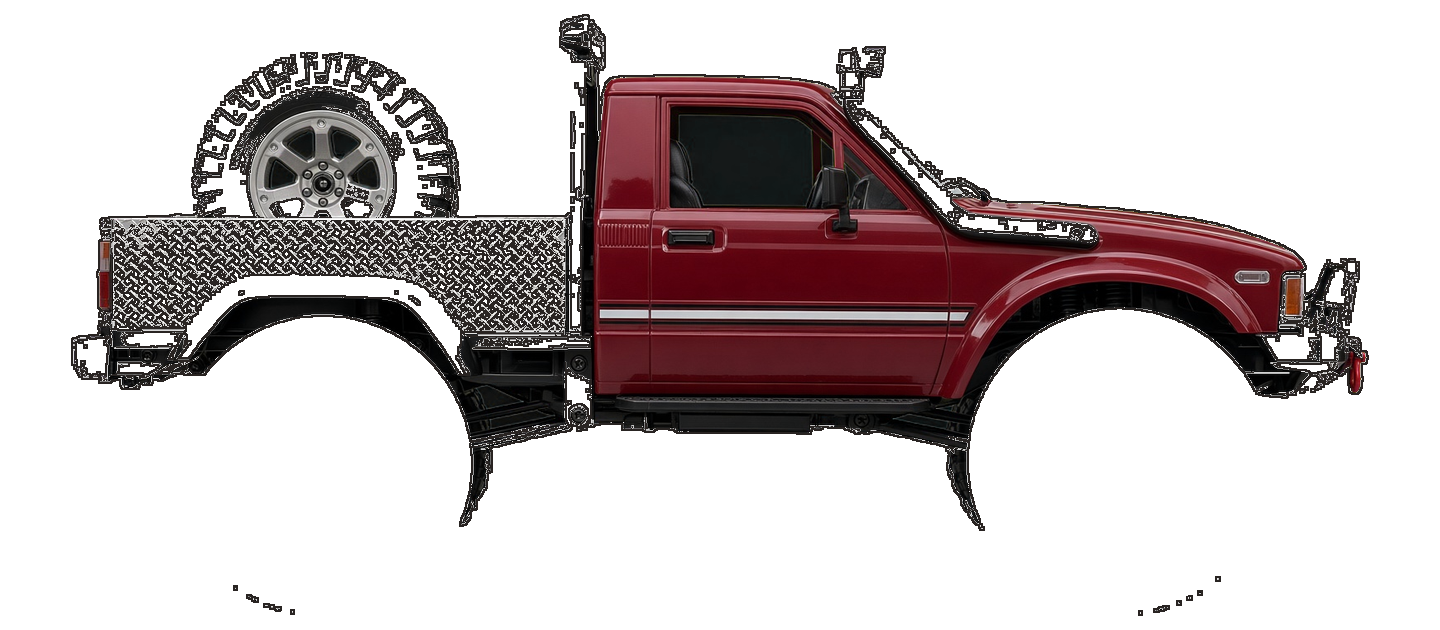
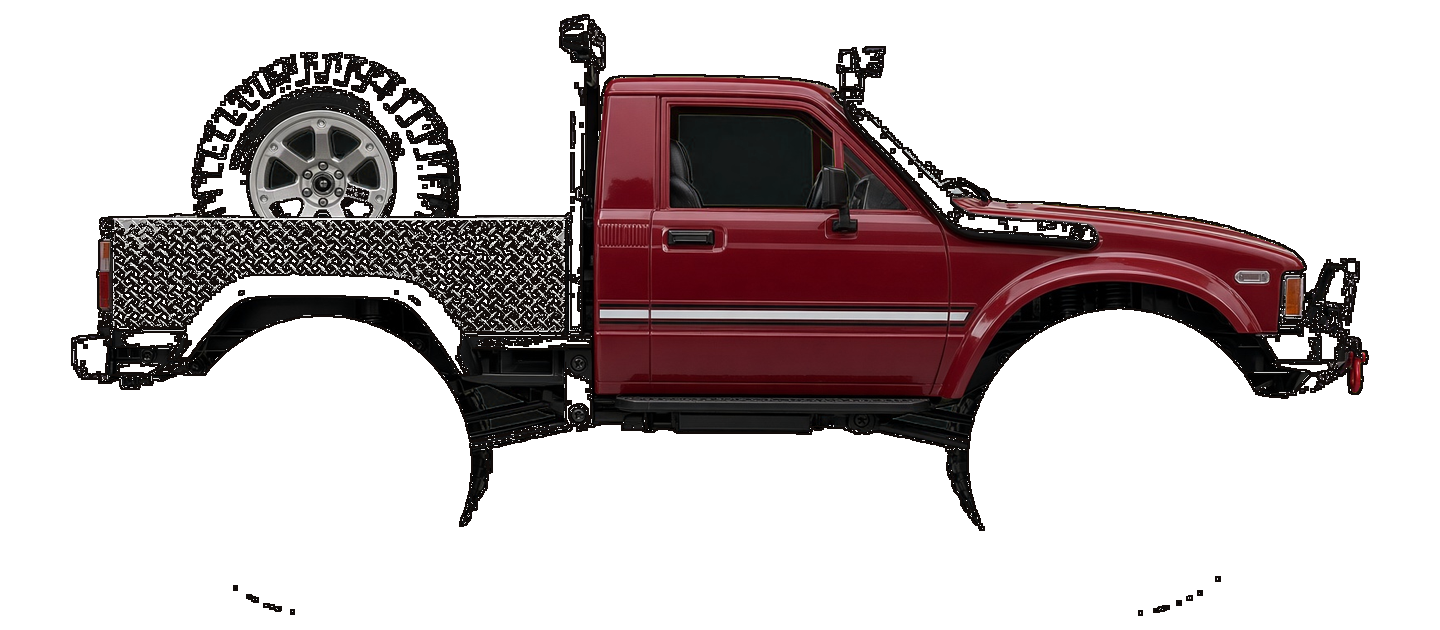
RC Rally 3.13 — earlier difficulty, Space missiles, real wheel shrink, remove see-through square
Cache-bust ?v=20260925diff2. RCRallyJump only.

diff --git a/games/RCRallyJump/engine.js b/games/RCRallyJump/engine.js
@@ -1,4 +1,4 @@
-const VERSION = "3.11";
+const VERSION = "3.13";
 const VIEW_W = 960;
 const VIEW_H = 540;
 const PLAYER_X = 168;
@@ -217,8 +217,8 @@ function createSim(best = 0) {
     missileT: 0,
     rig: "rally",
     booms: 0,
-    nextGate: 780,
-    nextDrone: 9800,
+    nextGate: 520,
+    nextDrone: 5200,
     stage: "calm",
     gatesCleared: 0,
     best,
@@ -269,9 +269,10 @@ function wheelPace(sim) {
   return sum * 0.5;
 }
 function stageAt(t) {
-  if (t < 90) return "calm";
-  if (t < 180) return "pattern";
-  if (t < 300) return "hunt";
+  // Retuned 3.12: calm short, weave by ~45s, chase by ~90s, lock/serious by ~180s (~3 min).
+  if (t < 45) return "calm";
+  if (t < 90) return "pattern";
+  if (t < 180) return "hunt";
   return "lock";
 }
 function eta(sim, worldX) {
@@ -281,7 +282,7 @@ function stageOf(sim) {
   return stageAt(sim.time || 0);
 }
 function heat(sim, worldX) {
-  return clamp(eta(sim, worldX) / 300, 0, 1.8);
+  return clamp(eta(sim, worldX) / 180, 0, 1.8);
 }
 function dronePos(sim, d) {
   if (d.kind === "pattern") {
@@ -300,7 +301,7 @@ function stepDrones(sim, dt) {
     if (d.kind === "drift") d.x -= sim.speed * 0.12 * dt;
     else if (d.kind === "pattern") d.x -= sim.speed * 0.03 * dt;
     else if (d.kind === "seek") {
-      const chase = sim.time < 180 ? 0.35 : sim.time < 300 ? 0.35 + (sim.time - 180) / 120 * 0.75 : 1.35;
+      const chase = sim.time < 90 ? 0.35 : sim.time < 180 ? 0.35 + (sim.time - 90) / 90 * 0.75 : 1.35;
       d.x += (playerX + 260 - d.x) * Math.min(1, dt * (0.7 + chase));
       d.y += clamp(playerY - d.y, -140, 140) * dt * chase;
       d.y = clamp(d.y, 40, surfaceY(sim, d.x) - 56);
@@ -325,7 +326,7 @@ function spawnDrones(sim) {
     const gyD = groundY(x);
     const nearGate = sim.gates.some((g) => Math.abs(g.x - x) < 200);
     if (stage === "calm") {
-      if (!nearGate && gyD > 180 && eta(sim, x) > 40) {
+      if (!nearGate && gyD > 180 && eta(sim, x) > 22) {
         sim.drones.push({
           kind: "drift",
           x,
@@ -335,19 +336,19 @@ function spawnDrones(sim) {
           dead: false
         });
       }
-      sim.nextDrone += 2400 + hash(x + 3) * 800;
+      sim.nextDrone += 1700 + hash(x + 3) * 650;
     } else if (stage === "pattern") {
       if (!nearGate) {
-        const late = clamp((eta(sim, x) - 90) / 120, 0, 1.4);
+        const late = clamp((eta(sim, x) - 45) / 60, 0, 1.4);
         const amp = 64 + late * 36;
         const freq = 0.8 + late * 0.85;
         const y = clamp(gyD * 0.42, 130, 240);
         sim.drones.push({ kind: "pattern", x, y, bob: 0, amp, freq, spin: 0, dead: false });
         sim.drones.push({ kind: "pattern", x, y, bob: Math.PI, amp, freq, spin: 0, dead: false });
       }
-      sim.nextDrone += 1900 - Math.min(700, Math.max(0, eta(sim, x) - 90));
+      sim.nextDrone += 1550 - Math.min(650, Math.max(0, eta(sim, x) - 45));
     } else if (stage === "hunt") {
-      const cap = sim.time < 240 ? 1 : sim.time < 300 ? 2 : 3;
+      const cap = sim.time < 120 ? 1 : sim.time < 180 ? 2 : 3;
       const hunting = sim.drones.filter((d) => d.kind === "seek" && !d.dead).length;
       if (hunting < cap && !nearGate) {
         sim.drones.push({
@@ -359,7 +360,7 @@ function spawnDrones(sim) {
           dead: false
         });
       }
-      sim.nextDrone += sim.time < 300 ? 1400 : 900;
+      sim.nextDrone += sim.time < 180 ? 1180 : 820;
     } else {
       const blocking = sim.drones.some((d) => d.kind === "lock" && !d.dead && d.x > sim.scroll + 40);
       if (!blocking && !nearGate) {
@@ -372,9 +373,9 @@ function spawnDrones(sim) {
           dead: false,
           bumped: false
         });
-        sim.nextDrone += sim.time < 420 ? 2200 : 1500;
+        sim.nextDrone += sim.time < 240 ? 1850 : 1350;
       } else {
-        const cap = sim.time < 420 ? 2 : 3;
+        const cap = sim.time < 240 ? 2 : 3;
         const hunting = sim.drones.filter((d) => d.kind === "seek" && !d.dead).length;
         if (hunting < cap) {
           sim.drones.push({
@@ -386,7 +387,7 @@ function spawnDrones(sim) {
             dead: false
           });
         }
-        sim.nextDrone += 980;
+        sim.nextDrone += 900;
       }
     }
   }
@@ -396,21 +397,22 @@ function plant(sim) {
 }
 function cruiseOf(sim) {
   const t = sim.time || 0;
-  if (t < 300) return 210 + t * 0.22;
-  return Math.min(420, 276 + (t - 300) * 0.6);
+  if (t < 180) return 215 + t * 0.38;
+  return Math.min(430, 283 + (t - 180) * 0.72);
 }
 function randKind(sim, worldX) {
   const t = eta(sim, worldX);
   const r = hash(worldX);
-  if (t < 55) return "drive";
-  if (t < 140) return r < 0.42 ? "drive" : "hop";
-  if (t < 300) {
-    if (r < 0.28) return "drive";
-    if (r < 0.72) return "hop";
+  // Brief flat spawn, then hops in the first minute; climbs meaningfully by ~1–2 min.
+  if (t < 14) return "drive";
+  if (t < 45) return r < 0.26 ? "drive" : "hop";
+  if (t < 110) {
+    if (r < 0.16) return "drive";
+    if (r < 0.66) return "hop";
     return "climb";
   }
-  if (r < 0.16) return "drive";
-  if (r < 0.5) return "hop";
+  if (r < 0.1) return "drive";
+  if (r < 0.46) return "hop";
   return "climb";
 }
 function groundSpan(worldX) {
@@ -428,7 +430,7 @@ function spawnGate(sim, worldX) {
   const kicker = wantKicker(sim, worldX);
   const kind = kicker ? "hop" : randKind(sim, worldX);
   const t = eta(sim, worldX);
-  const opening = t < 300 ? 210 - t * 0.13 : Math.max(112, 171 - (t - 300) * 0.18);
+  const opening = t < 180 ? 208 - t * 0.3 : Math.max(108, 154 - (t - 180) * 0.24);
   let gapTop;
   let gapBot;
   if (kicker) {
@@ -463,10 +465,11 @@ function spawnGate(sim, worldX) {
 }
 function wantKicker(sim, worldX) {
   const t = eta(sim, worldX);
-  if (t < 40) return false;
-  if (hash(worldX + 8.5) > (t < 300 ? 0.34 : 0.22)) return false;
+  // Fun amber ramps in the opening minute; still off for the first ~12s so spawn stays fair.
+  if (t < 12) return false;
+  if (hash(worldX + 8.5) > (t < 90 ? 0.5 : t < 180 ? 0.38 : 0.24)) return false;
   const last = sim.ramps[sim.ramps.length - 1];
-  if (last && worldX - last.lip < (t < 180 ? 980 : 720)) return false;
+  if (last && worldX - last.lip < (t < 60 ? 700 : t < 120 ? 560 : 440)) return false;
   return true;
 }
 function wrapDeg(a) {
@@ -770,7 +773,7 @@ function tick(sim, dt, input) {
   }
   while (sim.nextGate < sim.scroll + VIEW_W + 80) {
     spawnGate(sim, sim.nextGate);
-    const pace = sim.time < 300 ? 2.4 - sim.time * 0.0014 : Math.max(1.25, 1.95 - (sim.time - 300) * 0.002);
+    const pace = sim.time < 180 ? 2.05 - sim.time * 0.0032 : Math.max(1.18, 1.55 - (sim.time - 180) * 0.0024);
     const spacing = cruiseOf(sim) * pace;
     sim.nextGate += spacing;
   }
@@ -1242,10 +1245,8 @@ function drawCar(ctx, sim, art) {
   const wheelFront = pixel && ready(art.pixelWheel) ? art.pixelWheel : crawler && ready(art.crawlerWheel) ? art.crawlerWheel : art.wheelFront;
   const body = pixel ? art.pixel : crawler ? art.crawler : art.body;
   const wheelsReady = ready(wheelRear) && ready(wheelFront) && ready(body);
-  if (wheelsReady) {
-    spinWheel(ctx, sim, 0, wheelRear);
-    spinWheel(ctx, sim, 1, wheelFront);
-  }
+  // Body first, then wells+tires on top. Body PNGs bake full-size wheel arches; drawing tires
+  // underneath left a full-size arch halo when tune.wheel shrunk the live tire.
   const img = wheelsReady ? body : art.buggy;
   if (img && ready(img)) {
     ctx.drawImage(img, -CAR_W / 2 * s, -CAR_H / 2 * s, CAR_W * s, CAR_H * s);
@@ -1253,10 +1254,14 @@ function drawCar(ctx, sim, art) {
     ctx.fillStyle = pixel ? "#d42828" : crawler ? "#9a1b24" : "#e4572e";
     ctx.fillRect(-CAR_W / 2 * s, -CAR_H / 2 * s, CAR_W * s, CAR_H * s);
   }
-  if (sim.damage > 6) {
-    ctx.fillStyle = `rgba(70, 18, 10, ${Math.min(0.28, sim.damage / 360)})`;
-    ctx.fillRect(-CAR_W / 2 * s, -CAR_H / 2 * s, CAR_W * s * 0.45, CAR_H * s);
+  if (wheelsReady) {
+    // Body-colored well fill (not tire-black) so shrink cannot leave a full-size black silhouette.
+    const wellFill = pixel ? "#6a2430" : crawler ? "#7a1c24" : "#5c2218";
+    spinWheel(ctx, sim, 0, wheelRear, wellFill);
+    spinWheel(ctx, sim, 1, wheelFront, wellFill);
   }
+  // Damage used to paint a translucent rear fillRect (read as a see-through square that followed
+  // every skin). Dents alone carry the beat-up look without a rogue panel.
   if (sim.dents.length) {
     ctx.strokeStyle = "rgba(48, 22, 14, 0.9)";
     ctx.lineWidth = 1.4;
@@ -1274,23 +1279,33 @@ function drawCar(ctx, sim, art) {
 function ready(img) {
   return !!img && img.complete && img.naturalWidth > 0;
 }
-function spinWheel(ctx, sim, index, img) {
+function spinWheel(ctx, sim, index, img, wellFill = "#5c2218") {
   const g = wheelGeom(sim, index);
-  // Squash in chassis space (before spin) so tires expand sideways / shrink vertically against dirt,
-  // instead of the oval orbiting with the tread (scale-after-rotate looked like broken expand/shrink).
+  // Cover the body PNG's baked full-size well with chassis paint, then draw the live tire at
+  // tune.wheel. Collision uses the same radius (g.r === max(3.5, drawR)). Tire-black fill was
+  // reading as a full-size silhouette when the slider shrank the sprite.
+  const wellR = Math.max(g.drawR, rigWheels(sim)[index].r * sim.tune.chassis * 1.04);
   const bulge = 1 + g.squash * 0.28;
   const flat = Math.max(0.52, 1 - g.squash * 0.42);
   const ang = sim.wheelAng[index];
   ctx.save();
   ctx.translate(g.lx, g.ly + g.squash * g.drawR * 0.2);
+  ctx.beginPath();
+  ctx.arc(0, 0, wellR, 0, Math.PI * 2);
+  ctx.fillStyle = wellFill;
+  ctx.fill();
+  ctx.save();
   ctx.scale(bulge, flat);
   ctx.rotate(ang);
-  // Opaque disc under the sprite so spoke/tread cutouts stay solid (no sky/dirt through the hub).
+  ctx.beginPath();
+  ctx.arc(0, 0, Math.max(0.5, g.drawR), 0, Math.PI * 2);
+  ctx.clip();
   ctx.beginPath();
   ctx.arc(0, 0, g.drawR * 0.98, 0, Math.PI * 2);
   ctx.fillStyle = "#14110f";
   ctx.fill();
   ctx.drawImage(img, -g.drawR, -g.drawR, g.drawR * 2, g.drawR * 2);
+  ctx.restore();
   ctx.restore();
 }
 function drawTrailer(ctx, sim) {

diff --git a/games/RCRallyJump/index.html b/games/RCRallyJump/index.html
@@ -273,9 +273,9 @@
       pointer-events: auto;
       touch-action: manipulation;
       flex: 1;
-      height: 48px;
-      min-width: 72px;
-      padding: 0 14px;
+      height: 52px;
+      min-width: 88px;
+      padding: 0 16px;
       border-radius: 12px;
       border: 1px solid var(--amber);
       background: var(--ember);
@@ -283,8 +283,22 @@
       font-family: var(--display);
       letter-spacing: 0.12em;
       font-size: 22px;
+      box-shadow: 0 6px 0 rgba(0, 0, 0, 0.28);
+    }
+    .fire#fire {
+      flex: 1.35;
+      min-width: 110px;
+      font-size: 24px;
+      background: linear-gradient(180deg, #e4572e 0%, #b33a1c 100%);
     }
     .fire[hidden] { display: none; }
+    @media (max-width: 720px) {
+      .fire#fire {
+        height: 58px;
+        min-width: 120px;
+        font-size: 26px;
+      }
+    }
     .tune {
       pointer-events: auto;
       position: absolute;
@@ -384,9 +398,9 @@
         <div class="missiles">
           <div class="pack-row"><span>MISSILES</span></div>
           <div class="missile-actions">
-            <div class="pips" id="pips" title="Fire a missile"><i></i><i></i><i></i></div>
+            <div class="pips" id="pips" title="Space or tap to fire a missile"><i></i><i></i><i></i></div>
             <button type="button" class="fire" id="nose" data-ui hidden>Front</button>
-            <button type="button" class="fire" id="fire" data-ui hidden>Fire</button>
+            <button type="button" class="fire" id="fire" data-ui hidden>Missile</button>
           </div>
         </div>
       </div>
@@ -404,13 +418,13 @@
         </div>
         <p class="picked" id="picked">Selected: rally buggy</p>
         <ul>
-          <li>Press the spot you want the front to point. In front, behind, above, or below. Hold to jump. Let go and it lands flat. Upside down ends the run.</li>
+          <li>Press the spot you want the front to point. In front, behind, above, or below. Hold Up / W (or press and hold on the track) to jump. Space fires a missile. Let go and it lands flat. Upside down ends the run.</li>
           <li>The striped walls are solid. A hit bumps you and leaves a mark. Climb or drop into the gap to get through. A clean gap scores more than a scrape.</li>
           <li>Amber kickers throw you through if you ride them with speed. Too late, and you take the gate on the dirt.</li>
-          <li>It stays friendly for about five minutes, then the drones get serious. Shoot a beam to get past it.</li>
+          <li>Drones pick up after the first minute and get serious by a few minutes in. Shoot a beam to get past it.</li>
         </ul>
         <button type="button" class="go" id="start" data-ui>Start run</button>
-        <p class="hint">Press where the front should point. Hold to jump. Front points the nose forward.</p>
+        <p class="hint">Aim where the front should point. Up / W or hold to jump. Space or Missile for missiles. Arrows / WASD steer.</p>
         <a class="home" href="https://www.similarize.com/">Similarize</a>
       </div>
     </div>
@@ -431,7 +445,7 @@
         <h2 id="over-score">0</h2>
         <p class="lead" id="over-meta"></p>
         <button type="button" class="go" id="again" data-ui>Run it back</button>
-        <p class="hint">Tap, Space, or R</p>
+        <p class="hint">Tap, Space, or R to run it back</p>
       </div>
     </div>
     <div class="tune" id="tune" data-ui hidden>
@@ -452,6 +466,6 @@
       <button type="button" class="reset" id="tune-reset" data-ui>Reset</button>
     </div>
   </div>
-  <script type="module" src="./standalone.js?v=20260925wheels4"></script>
+  <script type="module" src="./standalone.js?v=20260925diff2"></script>
 </body>
 </html>

diff --git a/games/RCRallyJump/standalone.js b/games/RCRallyJump/standalone.js
@@ -14,7 +14,7 @@ import {
   wheelPace,
   MISSILE_MAX,
   MISSILE_RELOAD
-} from "./engine.js?v=20260925wheels4";
+} from "./engine.js?v=20260925diff2";
 var BEST_KEY = "rc-rally-jump-best";
 var RIG_KEY = "rc-rally-rig";
 var TUNE_KEY = "rc-rally-tune";
@@ -174,9 +174,9 @@ function boot() {
   art.wheelFront.src = artUrl("wheel-front.png") + "?v=20260925wheels4";
   art.drone.src = artUrl("drone.png");
   art.sky.src = artUrl("sky.jpg");
-  art.crawler.src = artUrl("crawler-body.png") + "?v=20260925render";
+  art.crawler.src = artUrl("crawler-body.png") + "?v=20260925diff2";
   art.crawlerWheel.src = artUrl("crawler-wheel.png") + "?v=20260925wheels4";
-  art.pixel.src = artUrl("pixel-body.png") + "?v=20260925pixel";
+  art.pixel.src = artUrl("pixel-body.png") + "?v=20260925diff2";
   art.pixelWheel.src = artUrl("pixel-wheel.png") + "?v=20260925wheels4";
   const rigBtns = [...document.querySelectorAll("#rigs .rig")];
   const picked = el("picked");
@@ -292,7 +292,7 @@ function boot() {
   };
   let noseDown = false;
   let pointerXY = null;
-  const boostHeld = () => pointer || keys.has("Space") || keys.has("ArrowUp") || keys.has("KeyW");
+  const boostHeld = () => pointer || keys.has("ArrowUp") || keys.has("KeyW");
   const camera = () => {
     const portrait = canvas.height > canvas.width * 1.05;
     const scale = portrait ? Math.min(canvas.width / 700, canvas.height / VIEW_H) : Math.min(canvas.width / VIEW_W, canvas.height / VIEW_H);
@@ -337,7 +337,8 @@ function boot() {
     if (e.repeat) return;
     if (["Space", "ArrowUp", "ArrowDown", "ArrowLeft", "ArrowRight", "KeyW", "KeyA", "KeyS", "KeyD"].includes(e.code)) e.preventDefault();
     keys.add(e.code);
-    if (e.code === "KeyF" && sim.phase === "play") {
+    // Conventional: Space / F fire missiles. Jump is Up / W (and touch hold) — not Space.
+    if ((e.code === "Space" || e.code === "KeyF") && sim.phase === "play") {
       e.preventDefault();
       fireEdge = true;
       return;
@@ -357,8 +358,11 @@ function boot() {
       begin(false);
       return;
     }
-    if ((e.code === "Space" || e.code === "ArrowUp" || e.code === "KeyW") && sim.phase === "title") {
+    if ((e.code === "ArrowUp" || e.code === "KeyW") && sim.phase === "title") {
       begin(true);
+    }
+    if (e.code === "Space" && sim.phase === "title") {
+      begin(false);
     }
     if ((e.code === "Space" || e.code === "KeyR") && sim.phase === "over" && sim.sinceOver > 0.35) {
       begin(false);
